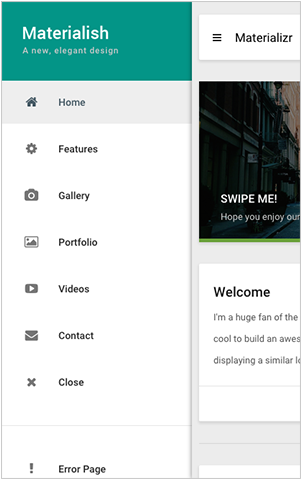
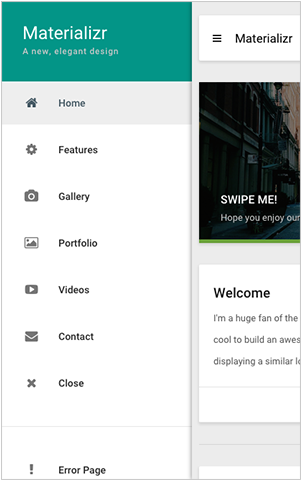
screenshot change

diff --git a/features-jquery.html b/features-jquery.html
@@ -39,7 +39,7 @@
         <!-- Left Sidebar-->
         <div class="snap-drawer snap-drawer-left">
             <div class="sidebar-header">
-                <a href="#" class="sidebar-logo"></a>
+                <a href="#" class="sidebar-logo">Materializr</a>
                 <p>A new, elegant design</p>
             </div>
             <ul class="sidebar-navigation full-bottom">
@@ -110,7 +110,7 @@
         <!-- Right Sidebar -->
         <div class="snap-drawer snap-drawer-right">
             <div class="sidebar-header">
-                <a href="#" class="sidebar-logo"></a>
+                <a href="#" class="sidebar-logo">Materializr</a>
                 <p>A new, elegant design</p>
             </div>
             

diff --git a/features-others.html b/features-others.html
@@ -39,7 +39,7 @@
         <!-- Left Sidebar-->
         <div class="snap-drawer snap-drawer-left">
             <div class="sidebar-header">
-                <a href="#" class="sidebar-logo"></a>
+                <a href="#" class="sidebar-logo">Materializr</a>
                 <p>A new, elegant design</p>
             </div>
             <ul class="sidebar-navigation full-bottom">
@@ -110,7 +110,7 @@
         <!-- Right Sidebar -->
         <div class="snap-drawer snap-drawer-right">
             <div class="sidebar-header">
-                <a href="#" class="sidebar-logo"></a>
+                <a href="#" class="sidebar-logo">Materializr</a>
                 <p>A new, elegant design</p>
             </div>
             

diff --git a/features-typography.html b/features-typography.html
@@ -39,7 +39,7 @@
         <!-- Left Sidebar-->
         <div class="snap-drawer snap-drawer-left">
             <div class="sidebar-header">
-                <a href="#" class="sidebar-logo"></a>
+                <a href="#" class="sidebar-logo">Materializr</a>
                 <p>A new, elegant design</p>
             </div>
             <ul class="sidebar-navigation full-bottom">
@@ -110,7 +110,7 @@
         <!-- Right Sidebar -->
         <div class="snap-drawer snap-drawer-right">
             <div class="sidebar-header">
-                <a href="#" class="sidebar-logo"></a>
+                <a href="#" class="sidebar-logo">Materializr</a>
                 <p>A new, elegant design</p>
             </div>
             

diff --git a/gallery.html b/gallery.html
@@ -39,7 +39,7 @@
         <!-- Left Sidebar-->
         <div class="snap-drawer snap-drawer-left">
             <div class="sidebar-header">
-                <a href="#" class="sidebar-logo"></a>
+                <a href="#" class="sidebar-logo">Materializr</a>
                 <p>A new, elegant design</p>
             </div>
             <ul class="sidebar-navigation full-bottom">
@@ -110,7 +110,7 @@
         <!-- Right Sidebar -->
         <div class="snap-drawer snap-drawer-right">
             <div class="sidebar-header">
-                <a href="#" class="sidebar-logo"></a>
+                <a href="#" class="sidebar-logo">Materializr</a>
                 <p>A new, elegant design</p>
             </div>
             

diff --git a/index.html b/index.html
@@ -39,7 +39,7 @@
         <!-- Left Sidebar-->
         <div class="snap-drawer snap-drawer-left">
             <div class="sidebar-header">
-                <a href="#" class="sidebar-logo"></a>
+                <a href="#" class="sidebar-logo">Materializr</a>
                 <p>A new, elegant design</p>
             </div>
             <ul class="sidebar-navigation full-bottom">
@@ -110,7 +110,7 @@
         <!-- Right Sidebar -->
         <div class="snap-drawer snap-drawer-right">
             <div class="sidebar-header">
-                <a href="#" class="sidebar-logo"></a>
+                <a href="#" class="sidebar-logo">Materializr</a>
                 <p>A new, elegant design</p>
             </div>
             

diff --git a/page-error.html b/page-error.html
@@ -38,7 +38,7 @@
         <!-- Left Sidebar-->
         <div class="snap-drawer snap-drawer-left">
             <div class="sidebar-header">
-                <a href="#" class="sidebar-logo"></a>
+                <a href="#" class="sidebar-logo">Materializr</a>
                 <p>A new, elegant design</p>
             </div>
             <ul class="sidebar-navigation full-bottom">
@@ -109,7 +109,7 @@
         <!-- Right Sidebar -->
         <div class="snap-drawer snap-drawer-right">
             <div class="sidebar-header">
-                <a href="#" class="sidebar-logo"></a>
+                <a href="#" class="sidebar-logo">Materializr</a>
                 <p>A new, elegant design</p>
             </div>
 

diff --git a/page-login.html b/page-login.html
@@ -37,7 +37,7 @@
         <!-- Left Sidebar-->
         <div class="snap-drawer snap-drawer-left">
             <div class="sidebar-header">
-                <a href="#" class="sidebar-logo"></a>
+                <a href="#" class="sidebar-logo">Materializr</a>
                 <p>A new, elegant design</p>
             </div>
             <ul class="sidebar-navigation full-bottom">
@@ -108,7 +108,7 @@
         <!-- Right Sidebar -->
         <div class="snap-drawer snap-drawer-right">
             <div class="sidebar-header">
-                <a href="#" class="sidebar-logo"></a>
+                <a href="#" class="sidebar-logo">Materializr</a>
                 <p>A new, elegant design</p>
             </div>
 

diff --git a/page-profile.html b/page-profile.html
@@ -37,7 +37,7 @@
         <!-- Left Sidebar-->
         <div class="snap-drawer snap-drawer-left">
             <div class="sidebar-header">
-                <a href="#" class="sidebar-logo"></a>
+                <a href="#" class="sidebar-logo">Materializr</a>
                 <p>A new, elegant design</p>
             </div>
             <ul class="sidebar-navigation full-bottom">
@@ -108,7 +108,7 @@
         <!-- Right Sidebar -->
         <div class="snap-drawer snap-drawer-right">
             <div class="sidebar-header">
-                <a href="#" class="sidebar-logo"></a>
+                <a href="#" class="sidebar-logo">Materializr</a>
                 <p>A new, elegant design</p>
             </div>
 

diff --git a/page-soon.html b/page-soon.html
@@ -37,7 +37,7 @@
         <!-- Left Sidebar-->
         <div class="snap-drawer snap-drawer-left">
             <div class="sidebar-header">
-                <a href="#" class="sidebar-logo"></a>
+                <a href="#" class="sidebar-logo">Materializr</a>
                 <p>A new, elegant design</p>
             </div>
             <ul class="sidebar-navigation full-bottom">
@@ -108,7 +108,7 @@
         <!-- Right Sidebar -->
         <div class="snap-drawer snap-drawer-right">
             <div class="sidebar-header">
-                <a href="#" class="sidebar-logo"></a>
+                <a href="#" class="sidebar-logo">Materializr</a>
                 <p>A new, elegant design</p>
             </div>
 

diff --git a/page-timeline.html b/page-timeline.html
@@ -37,7 +37,7 @@
         <!-- Left Sidebar-->
         <div class="snap-drawer snap-drawer-left">
             <div class="sidebar-header">
-                <a href="#" class="sidebar-logo"></a>
+                <a href="#" class="sidebar-logo">Materializr</a>
                 <p>A new, elegant design</p>
             </div>
             <ul class="sidebar-navigation full-bottom">
@@ -108,7 +108,7 @@
         <!-- Right Sidebar -->
         <div class="snap-drawer snap-drawer-right">
             <div class="sidebar-header">
-                <a href="#" class="sidebar-logo"></a>
+                <a href="#" class="sidebar-logo">Materializr</a>
                 <p>A new, elegant design</p>
             </div>
 

diff --git a/page-updates.html b/page-updates.html
@@ -37,7 +37,7 @@
         <!-- Left Sidebar-->
         <div class="snap-drawer snap-drawer-left">
             <div class="sidebar-header">
-                <a href="#" class="sidebar-logo"></a>
+                <a href="#" class="sidebar-logo">Materializr</a>
                 <p>A new, elegant design</p>
             </div>
             <ul class="sidebar-navigation full-bottom">
@@ -108,7 +108,7 @@
         <!-- Right Sidebar -->
         <div class="snap-drawer snap-drawer-right">
             <div class="sidebar-header">
-                <a href="#" class="sidebar-logo"></a>
+                <a href="#" class="sidebar-logo">Materializr</a>
                 <p>A new, elegant design</p>
             </div>
 

diff --git a/page-videos.html b/page-videos.html
@@ -37,7 +37,7 @@
         <!-- Left Sidebar-->
         <div class="snap-drawer snap-drawer-left">
             <div class="sidebar-header">
-                <a href="#" class="sidebar-logo"></a>
+                <a href="#" class="sidebar-logo">Materializr</a>
                 <p>A new, elegant design</p>
             </div>
             <ul class="sidebar-navigation full-bottom">
@@ -108,7 +108,7 @@
         <!-- Right Sidebar -->
         <div class="snap-drawer snap-drawer-right">
             <div class="sidebar-header">
-                <a href="#" class="sidebar-logo"></a>
+                <a href="#" class="sidebar-logo">Materializr</a>
                 <p>A new, elegant design</p>
             </div>
 
